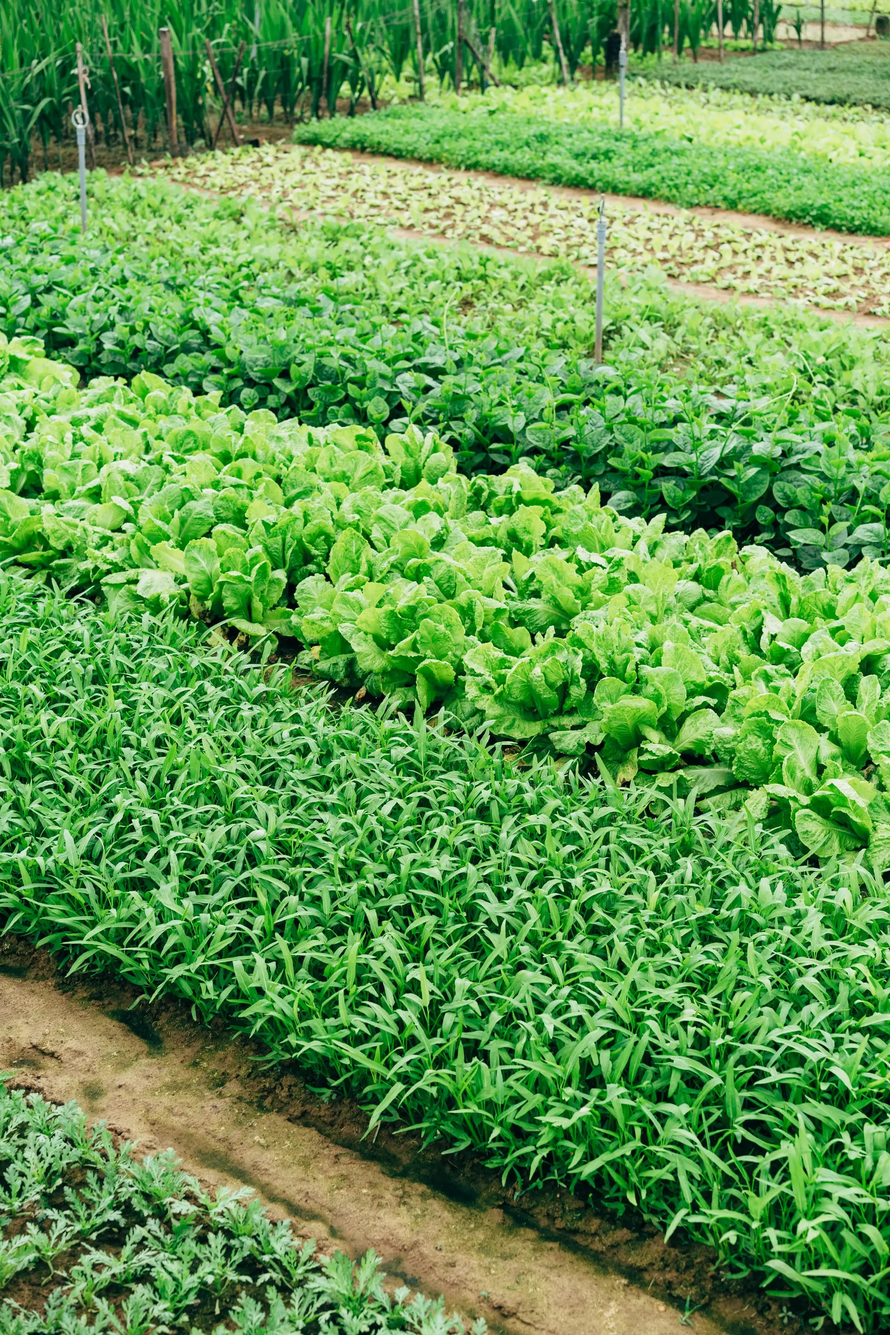
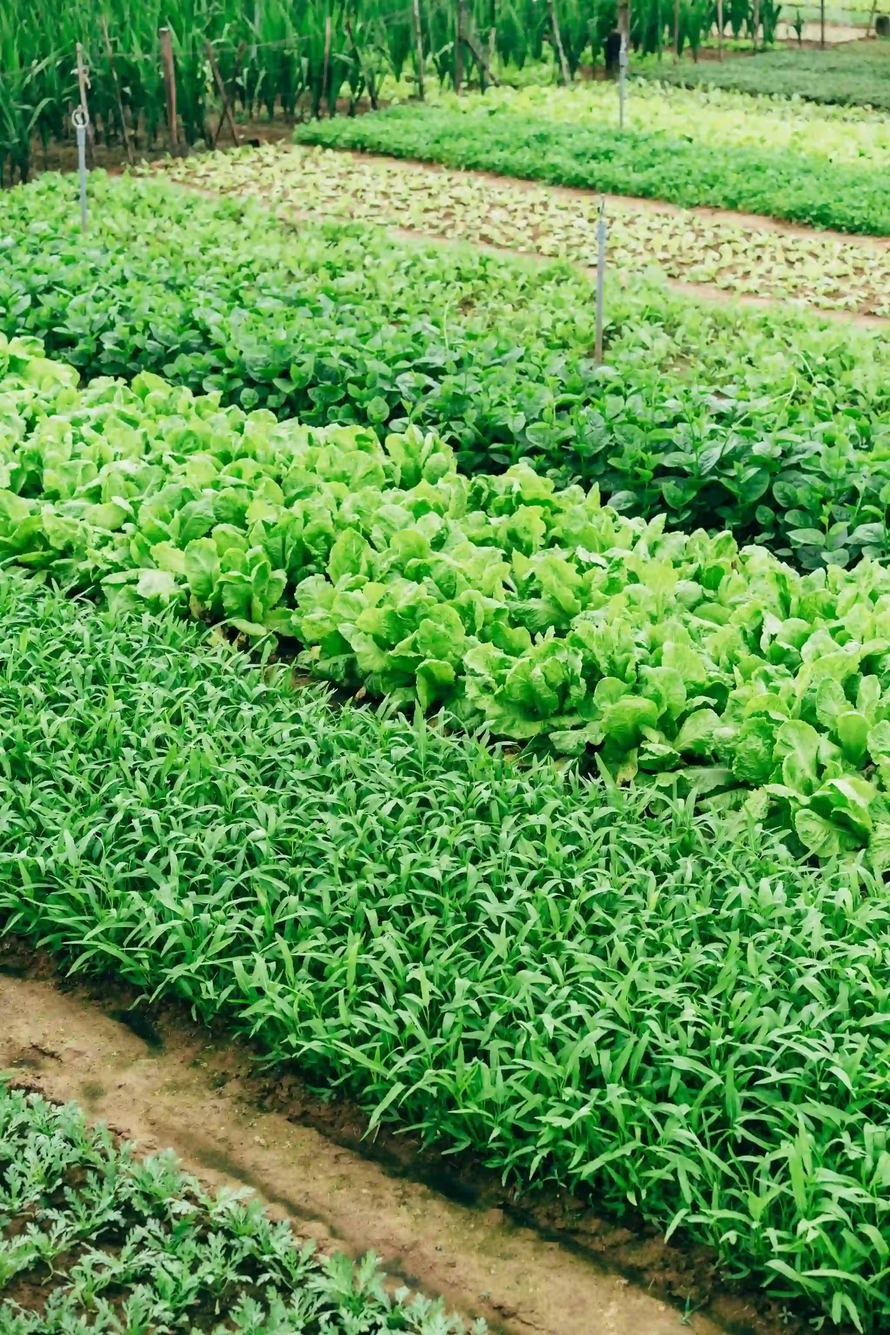
fix: improve image sizes

diff --git a/src/screens/Home.jsx b/src/screens/Home.jsx
@@ -1,0 +1,47 @@
+import { useEffect, useState } from 'react';
+import './sass/main.scss';
+import { motion, AnimatePresence } from 'framer-motion';
+import { Navbar } from './components/Navbar';
+import Banner from './components/Banner';
+import Loader from './components/Loader';
+import { People } from './components/People';
+import { News } from './components/News';
+
+const Home = () => {
+  const [loading, setLoading] = useState(true);
+
+  useEffect(() => {
+    loading
+      ? document.querySelector('body').classList.add('loading')
+      : document.querySelector('body').classList.remove('loading');
+  }, [loading]);
+  return (
+    <>
+      <AnimatePresence layoutId>
+        {loading ? (
+          <motion.div key="loader">
+            <Loader setLoading={setLoading} />
+          </motion.div>
+        ) : (
+          <>
+            <Navbar />
+            <Banner />
+            {!loading && (
+              <div className="transition-image final">
+                <motion.img
+                  transition={{ ease: [0.6, 0.01, -0.05, 0.9], duration: 1.6 }}
+                  src={process.env.PUBLIC_URL + `/images/image-2.jpg`}
+                  layoutId="main-image-1"
+                />
+              </div>
+            )}
+            <People />
+            <News />
+          </>
+        )}
+      </AnimatePresence>
+    </>
+  );
+};
+
+export default Home;

diff --git a/src/components/Loader.jsx b/src/components/Loader.jsx
@@ -62,7 +62,7 @@ const Loader = ({ setLoading }) => {
         <ImageBlock variants={item} id="image-1" />
         <motion.div variants={itemMain} className="transition-image">
           <motion.img
-            src={process.env.PUBLIC_URL + `/images/image-2.jpg`}
+            src={process.env.PUBLIC_URL + `/images/image-2.webp`}
             alt="random alt"
             layoutId="main-image-1"
           />
@@ -78,11 +78,7 @@ const Loader = ({ setLoading }) => {
 export const ImageBlock = ({ id, variants }) => {
   return (
     <motion.div className={`image-block ${id}`} variants={variants}>
-      <img
-        src={process.env.PUBLIC_URL + `/images/${id}.webp`}
-        fallback={process.env.PUBLIC_URL + `/images/${id}.jpg`}
-        alt={id}
-      />
+      <img src={process.env.PUBLIC_URL + `/images/${id}.webp`} alt="" />
     </motion.div>
   );
 };

diff --git a/src/components/News.jsx b/src/components/News.jsx
@@ -8,7 +8,7 @@ export const News = () => {
         </div>
         <div className="news-posts container">
           <div className="news-post">
-            <img src="/images/new-1.jpg" alt="" />
+            <img src="/images/new-1.webp" alt="" />
             <div className="data">
               <Fade delay={1}>
                 <h2>Order and pick up. Easy as that.</h2>
@@ -24,7 +24,7 @@ export const News = () => {
             </div>
           </div>
           <div className="news-post">
-            <img src="/images/new-2.jpg" alt="" />
+            <img src="/images/new-2.webp" alt="" />
             <Fade>
               <div className="data">
                 <h2>Hurricane Cleanup and Recovery.</h2>

diff --git a/src/components/People.jsx b/src/components/People.jsx
@@ -17,13 +17,13 @@ export const People = () => {
       <Fade>
         <div className="home-screen__bottom">
           <div className="img">
-            <img src="/images/people-1.jpg" alt="" />
+            <img src="/images/people-1.webp" alt="" />
           </div>
           <div className="img">
-            <img src="/images/people-2.jpg" alt="" />
+            <img src="/images/people-2.webp" alt="" />
           </div>
           <div className="img">
-            <img src="/images/people-3.jpg" alt="" />
+            <img src="/images/people-3.webp" alt="" />
           </div>
         </div>
       </Fade>

diff --git a/src/App.js b/src/App.js
@@ -30,7 +30,7 @@ function App() {
               <div className="transition-image final">
                 <motion.img
                   transition={{ ease: [0.6, 0.01, -0.05, 0.9], duration: 1.6 }}
-                  src={process.env.PUBLIC_URL + `/images/image-2.jpg`}
+                  src={process.env.PUBLIC_URL + `/images/image-2.webp`}
                   layoutId="main-image-1"
                 />
               </div>

diff --git a/src/sass/components/_navbar.scss b/src/sass/components/_navbar.scss
@@ -34,6 +34,14 @@
       gap: 2rem;
     }
 
+    .left {
+      img {
+        width: 64px;
+        height: 64px;
+        object-fit: cover;
+      }
+    }
+
     .right {
       @media (max-width: $layout-breakpoint-small) {
         display: none;

diff --git a/src/screens/FindUs.jsx b/src/screens/FindUs.jsx
@@ -1,0 +1,7 @@
+import React from 'react';
+
+const FindUs = () => {
+  return <div>FindUs</div>;
+};
+
+export default FindUs;
